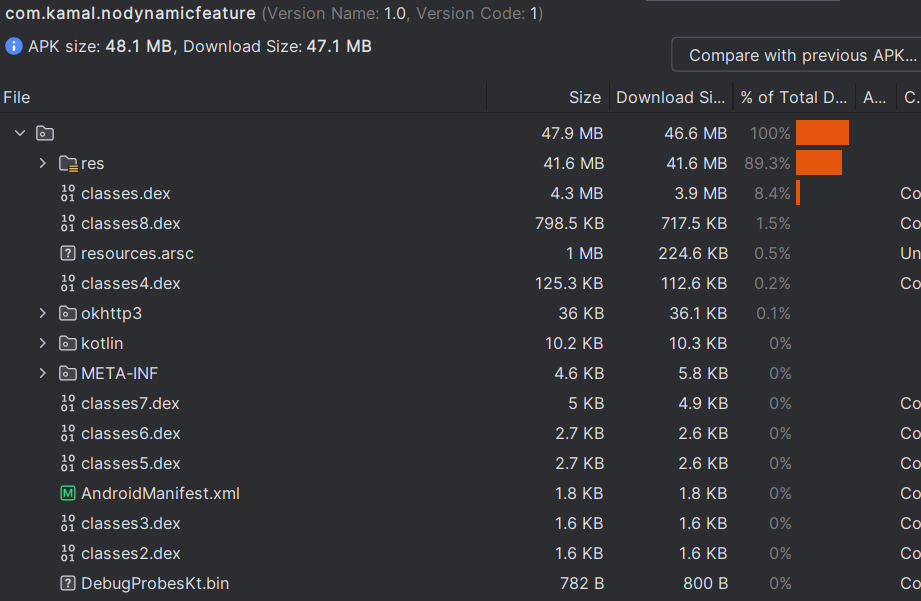
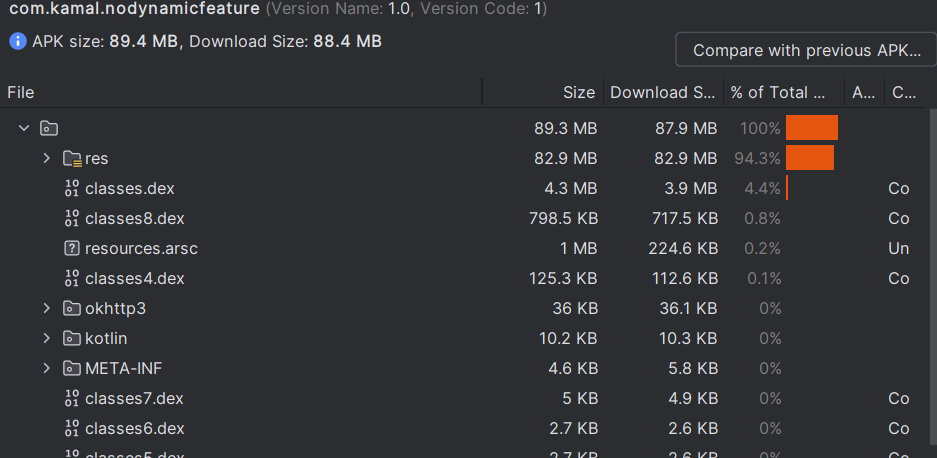
change name of dummy photo to not be duplicated on no dynamic feature

diff --git a/readme.md b/readme.md
@@ -36,7 +36,7 @@ Terdapat dua email dan password yang dapat digunakan untuk login, yaitu
 
 | With Dynamic Feature | Without Dummy Image | Download Size with dummy image |
 | -------------------- | ------------------- | ------------------------------ |
-| False                | 5.8MB               | 47.1MB                         |
+| False                | 5.8MB               | 88.4MB                         |
 | True                 | 9.9MB               | 9.9MB                          |
 
 ## Build Analysis
